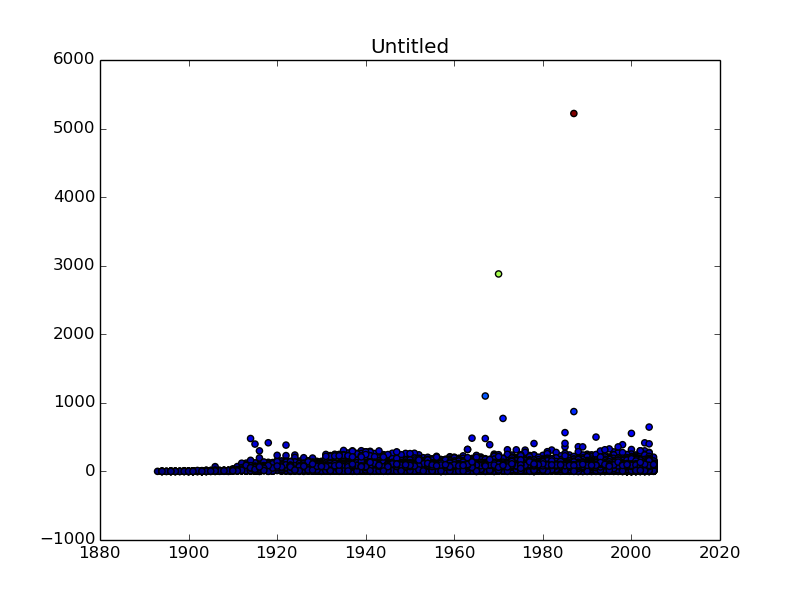
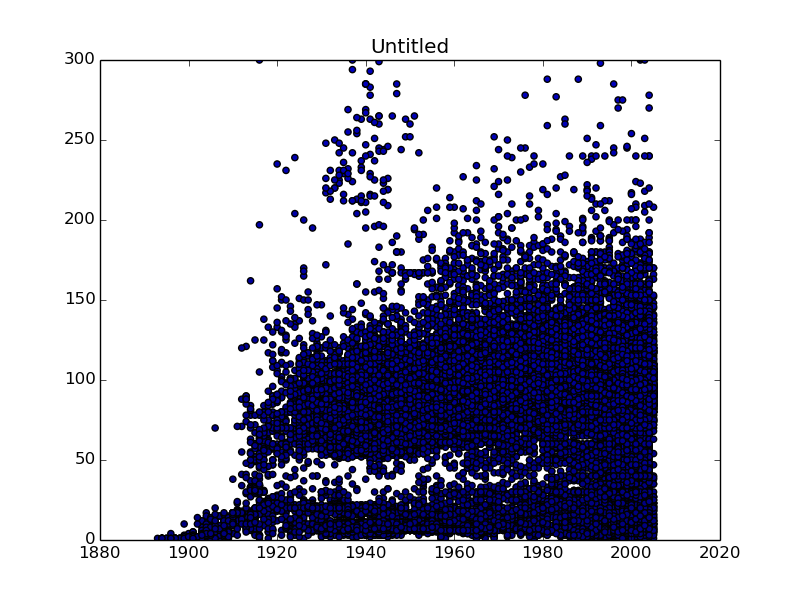
Made graphs nicer

diff --git a/Handin-6/prog_handin6.py b/Handin-6/prog_handin6.py
@@ -99,6 +99,10 @@ def ex_one(data):
 def make_scatterplot(keys_list, values_list, title="Untitled"):
     plt.scatter(keys_list, values_list, c=values_list)
     plt.title(title)
+<<<<<<< HEAD
+    plt.ylim(0, 300)
+=======
+>>>>>>> a5c1bf85aca41feed2dcddb85023facc96bbb7a6
     plt.savefig("nr3.png")
 
 def make_scatterplot_with_median(keys_list, values_list, title="Untitled"):
@@ -107,6 +111,10 @@ def make_scatterplot_with_median(keys_list, values_list, title="Untitled"):
 
     med = statistics.median(values_list)
     plt.axhline(y = med, color = 'r', label = ("median is " + str(med)))
+<<<<<<< HEAD
+    plt.ylim(0, 300)
+=======
+>>>>>>> a5c1bf85aca41feed2dcddb85023facc96bbb7a6
     plt.legend()
 
     plt.savefig("nr5.png")
